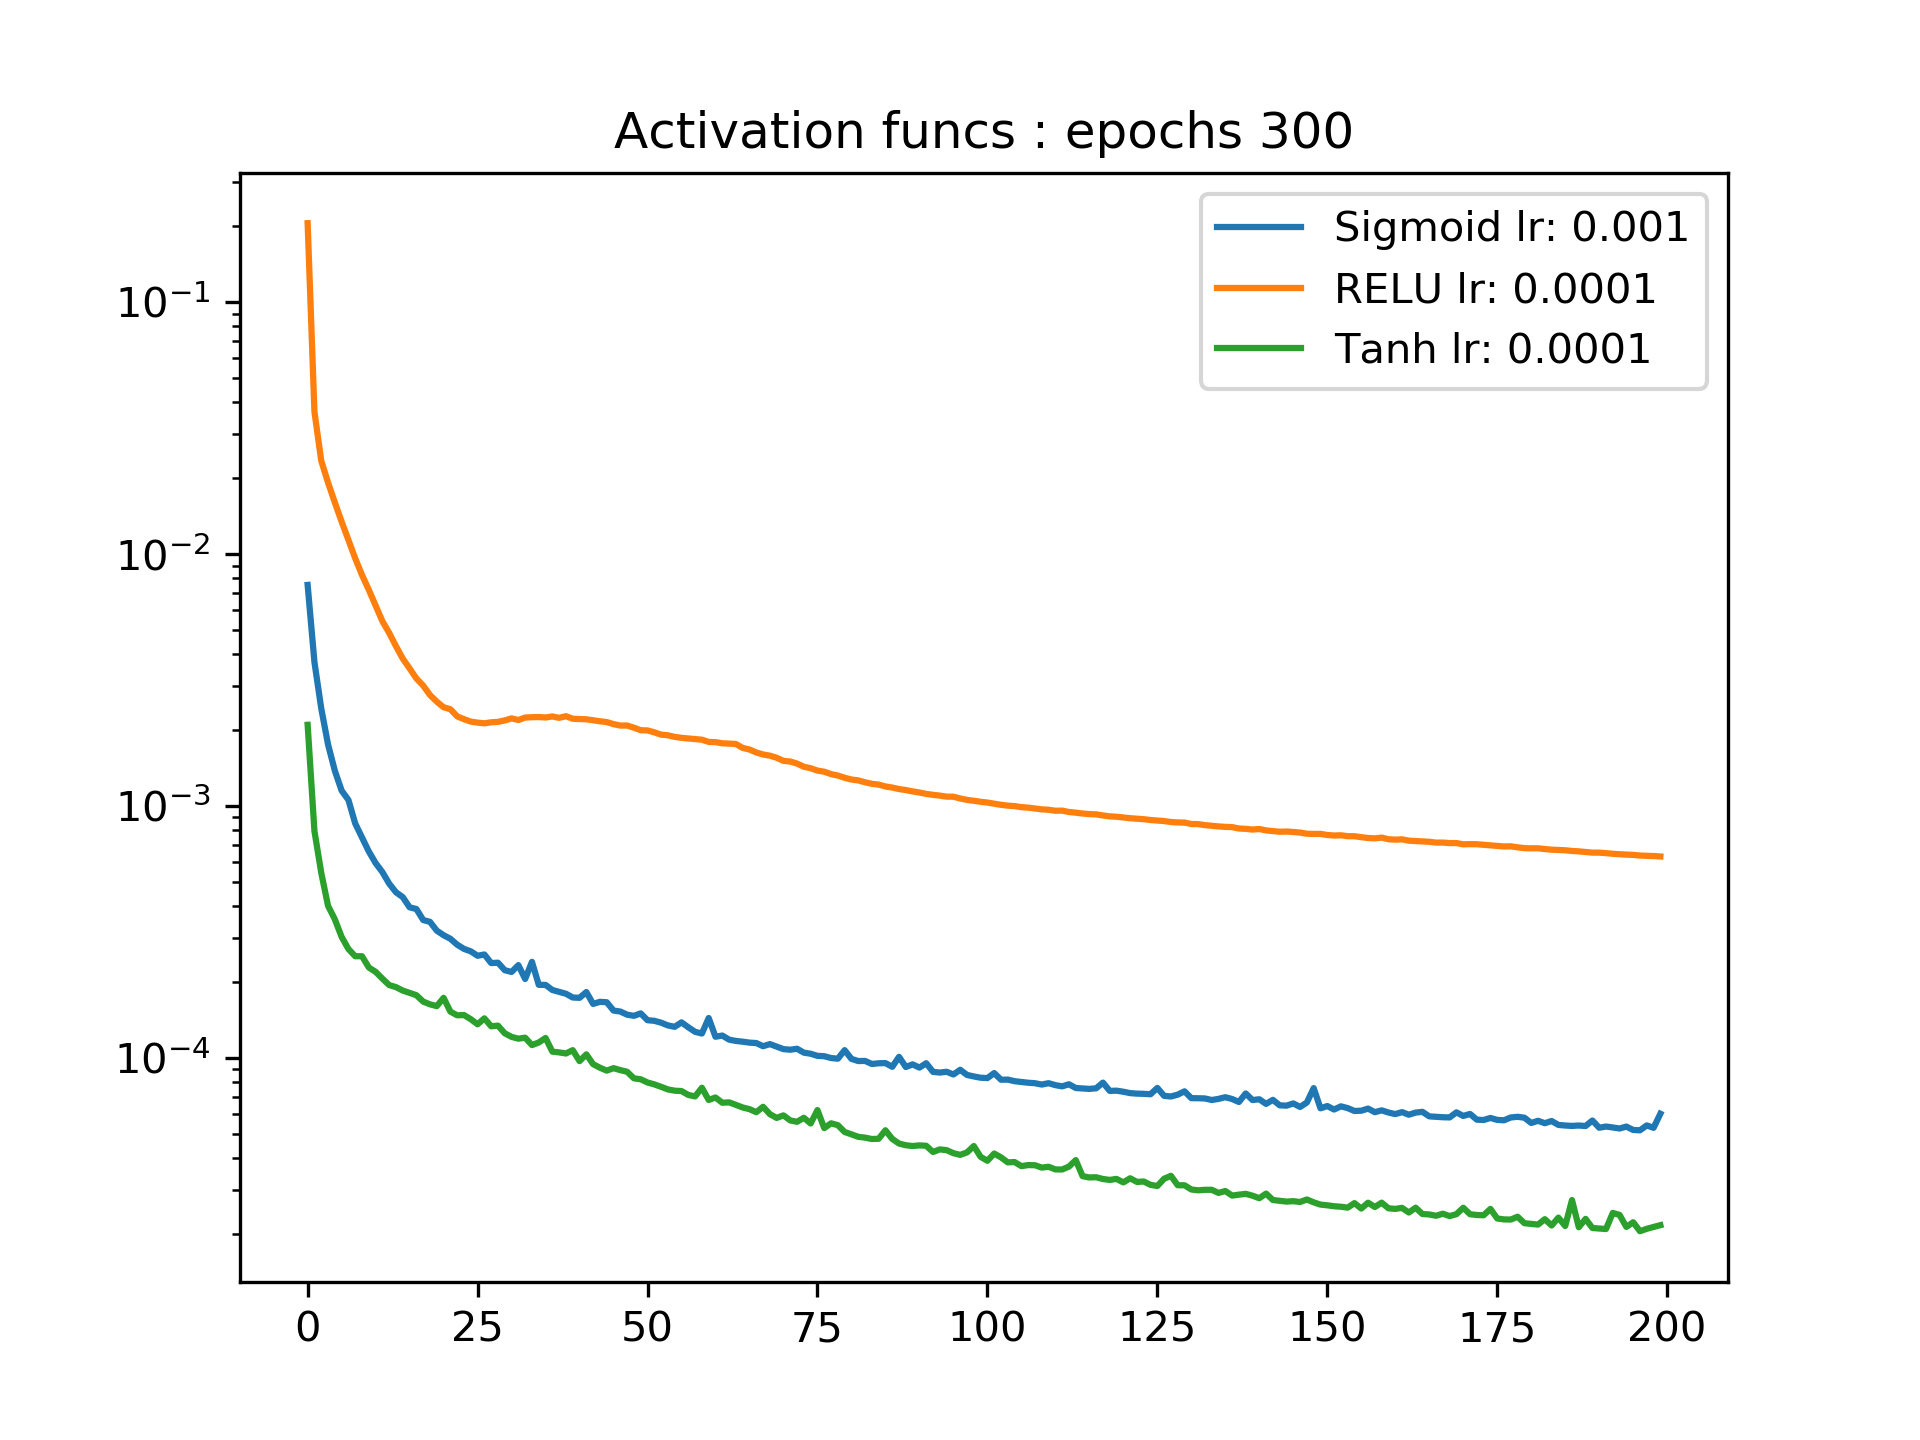
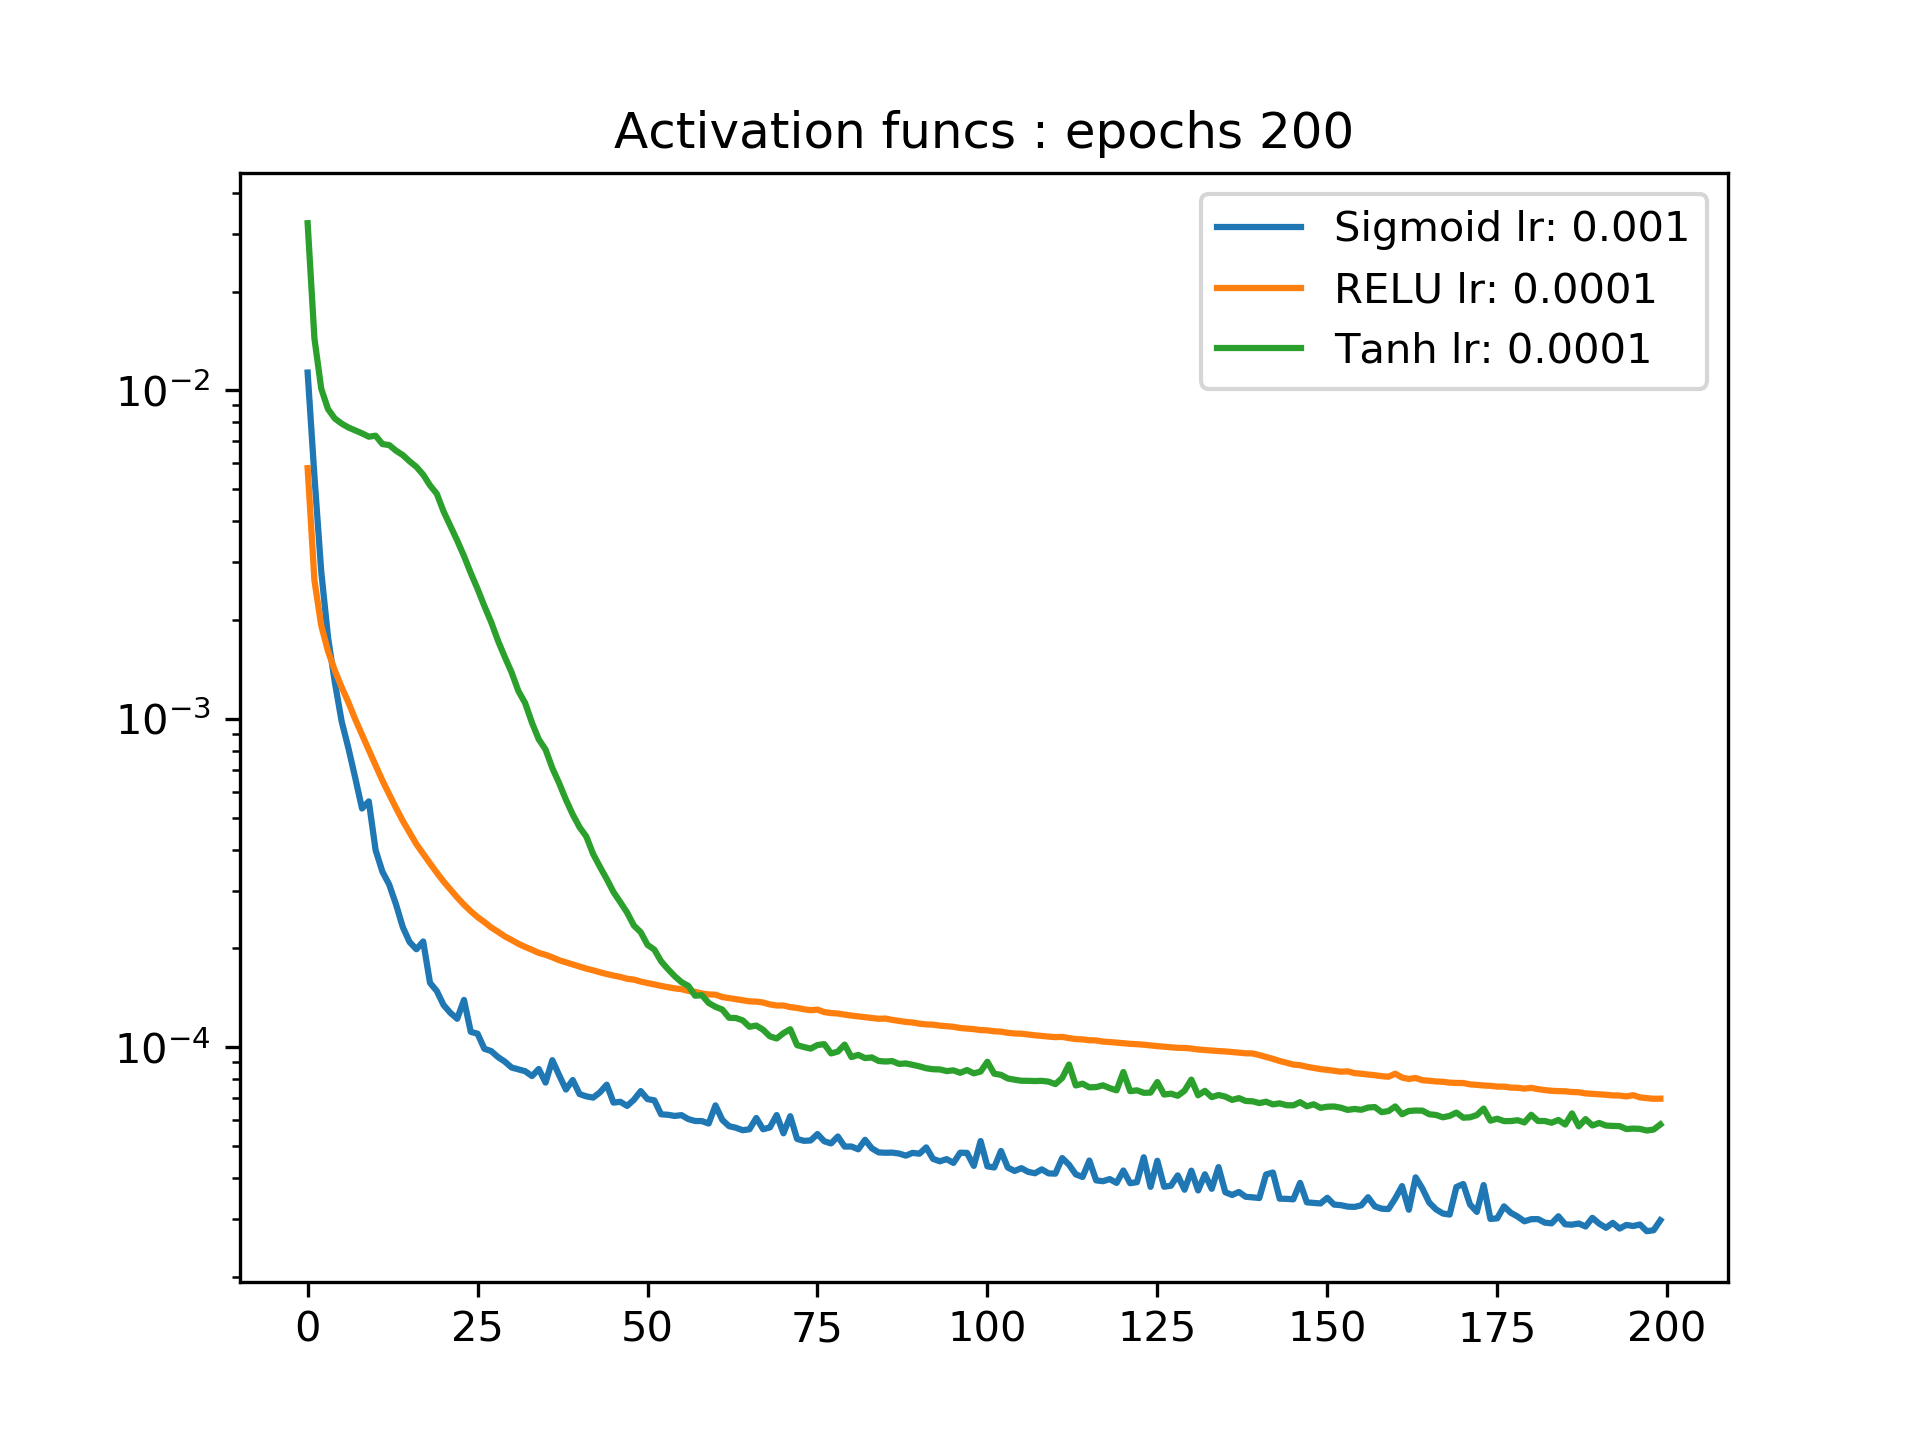
rand

diff --git a/Proj2 Update/NN_v2_.py b/Proj2 Update/NN_v2_.py
@@ -237,7 +237,7 @@ def scale(X_train, X_test, Y_train, Y_test):
 
 
 from sklearn.datasets import make_blobs
-X,y=make_blobs(n_samples=2000,n_features=2,centers=2,random_state=6,cluster_std=1.3)
+X,y=make_blobs(n_samples=200,n_features=2,centers=2,random_state=6,cluster_std=1.3)
 #plt.scatter(X, y)
 #plt.show()
 
@@ -248,7 +248,7 @@ X_train_, X_test_, Y_train_, Y_test_ = scale(X_train, X_test, Y_train, Y_test)
 
 ep = 300
 
-dnn = LinRegClass(X_train, Y_train, sigmoid, sigmoid_deriv, epochs = ep, eta = 0.00001)
+dnn = LinRegClass(X_train, Y_train, sigmoid, sigmoid_deriv, epochs = ep, eta = 0.001)
 dnn.layers[-1].sigma = sigmoid
 dnn.layers[-1].sigma_d = sigmoid_deriv
 dnn.train(X_train, Y_train, calcAccuracy=True)
